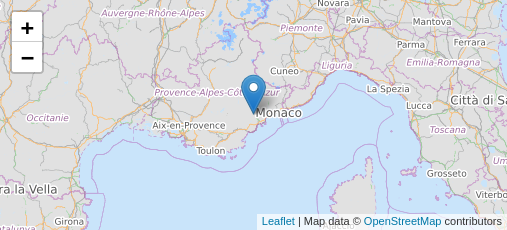
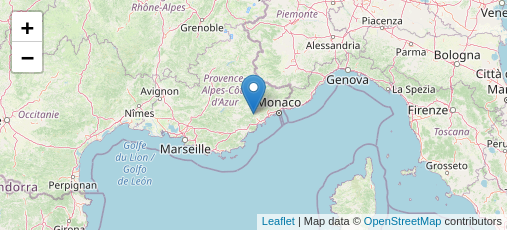
fix: Use classic osm tiles
The wmflabs.org is terminating

diff --git a/website/app-templates/smarty/js/_map_init.tpl.js b/website/app-templates/smarty/js/_map_init.tpl.js
@@ -6,7 +6,7 @@ function initializeMap() {
     let map = L.map('mapid', {
         worldCopyJump: true
     });
-    let osmUrl = {literal}'https://tiles.wmflabs.org/hikebike/{z}/{x}/{y}.png';{/literal}
+    let osmUrl = {literal}'https://tile.openstreetmap.org/{z}/{x}/{y}.png';{/literal}
     let osmAttrib = 'Map data © <a href="https://www.openstreetmap.org">OpenStreetMap</a> contributors';
     let osm = new L.TileLayer(osmUrl, {
       minZoom: 0,
